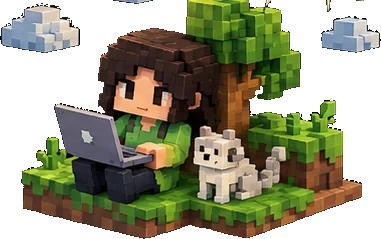
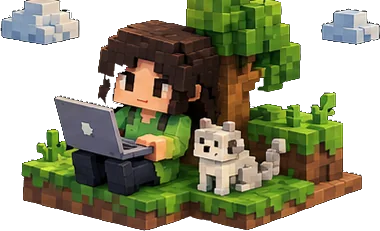
feat(frontend): voxel artwork, full-width chapters, and a much smoother scroll
Three things: the scroll was janky, the layout wasted the sides of a wide
screen, and the art is now yours rather than mine.

Smoothness. The opening animated a CSS `filter` on the element holding the
terrain, so every frame re-ran feTurbulence and re-rasterised a full-viewport
SVG: 12.7% dropped frames and a 250 ms worst case under a 6x CPU throttle. The
grading is now two flat layers whose opacity animates -- a compositor property,
so the terrain rasterises once. Measured over three runs of a full-page scroll:

  1x  median 16.7ms  p95 16.8ms  jank 1.5%
  2x  median 16.7ms  p95 16.8ms  jank 1.3%
  4x  median 16.7ms  p95 16.8ms  jank 2.2%

Two things I tried and backed out, both measured rather than assumed:
`content-visibility: auto` on the art made it far worse (56% jank) by thrashing
layout at the boundary, and `contain: strict` cost more than it saved by
stripping intrinsic size from an SVG wrapper.

Space. Every data chapter is now a sticky rail plus a wide body: the left third
carries the chapter's eyebrow, heading, standfirst and motif and stays put while
the content scrolls past, instead of a centred column marooned in white space.
The shell goes to 104rem and cards lay out two- and three-up. The console is a
full-bleed split with a real headline, the field, three numbered claims and the
diorama, rather than a form floating in the middle of the screen.

Artwork. The voxel cast is cut from the supplied sheet, keyed by flood-filling
[…]

diff --git a/frontend/src/components/sprites.ts b/frontend/src/components/sprites.ts
@@ -7,7 +7,7 @@
  * The sizes are baked in at build time rather than measured at runtime,
  * because they exist to reserve the element box *before* the image arrives.
  * Measuring them late would defeat the point and reintroduce layout shift --
- * which is one of the defects this product reports on other people's pages.
+ * one of the very defects this product reports on other pages.
  *
  * Imports go through Vite, so each file is content-hashed and cache-busted.
  */
@@ -36,19 +36,19 @@ export interface SpriteAsset {
 }
 
 export const SPRITES = {
-  'char-analyse': { src: CHAR_ANALYSE, width: 210, height: 223 },
-  'char-build': { src: CHAR_BUILD, width: 380, height: 239 },
-  'char-fix': { src: CHAR_FIX, width: 314, height: 224 },
-  'char-measure': { src: CHAR_MEASURE, width: 253, height: 210 },
-  'char-scan': { src: CHAR_SCAN, width: 242, height: 219 },
-  'char-tradeoffs': { src: CHAR_TRADEOFFS, width: 275, height: 216 },
+  'char-analyse': { src: CHAR_ANALYSE, width: 210, height: 207 },
+  'char-build': { src: CHAR_BUILD, width: 380, height: 231 },
+  'char-fix': { src: CHAR_FIX, width: 309, height: 216 },
+  'char-measure': { src: CHAR_MEASURE, width: 253, height: 202 },
+  'char-scan': { src: CHAR_SCAN, width: 191, height: 211 },
+  'char-tradeoffs': { src: CHAR_TRADEOFFS, width: 222, height: 208 },
   'iso-cloud': { src: ISO_CLOUD, width: 146, height: 139 },
-  'iso-co2': { src: ISO_CO2, width: 132, height: 154 },
+  'iso-co2': { src: ISO_CO2, width: 132, height: 155 },
   'iso-globe': { src: ISO_GLOBE, width: 199, height: 139 },
   'iso-laptop': { src: ISO_LAPTOP, width: 143, height: 139 },
-  'iso-server': { src: ISO_SERVER, width: 165, height: 177 },
+  'iso-server': { src: ISO_SERVER, width: 164, height: 177 },
   'iso-sprout': { src: ISO_SPROUT, width: 108, height: 155 },
-  'iso-sun': { src: ISO_SUN, width: 122, height: 115 },
+  'iso-sun': { src: ISO_SUN, width: 113, height: 114 },
   'iso-tree': { src: ISO_TREE, width: 154, height: 160 },
   'iso-turbine': { src: ISO_TURBINE, width: 128, height: 164 },
 } as const satisfies Record<string, SpriteAsset>

diff --git a/frontend/src/styles/layout.css b/frontend/src/styles/layout.css
@@ -204,7 +204,7 @@
   padding: 0;
   display: grid;
   gap: var(--space-6);
-  grid-template-columns: repeat(auto-fit, minmax(12rem, 1fr));
+  grid-template-columns: repeat(auto-fit, minmax(min(12rem, 100%), 1fr));
   border-top: var(--border-width) solid var(--border);
   padding-top: var(--space-8);
 }
@@ -251,22 +251,16 @@
   position: absolute;
 }
 
-.diorama__tree {
-  width: 40%;
-  left: 2%;
-  bottom: 14%;
-}
-
 .diorama__character {
-  width: 56%;
-  left: 30%;
-  bottom: 8%;
+  width: 92%;
+  left: 4%;
+  bottom: 12%;
 }
 
 .diorama__sprout {
-  width: 20%;
-  right: 4%;
-  bottom: 16%;
+  width: 17%;
+  right: 0;
+  bottom: 8%;
 }
 
 .diorama__cloud {
@@ -307,7 +301,7 @@
   .violation-list,
   .detection-list,
   .fix-list {
-    grid-template-columns: repeat(auto-fit, minmax(26rem, 1fr));
+    grid-template-columns: repeat(auto-fit, minmax(min(26rem, 100%), 1fr));
   }
 }
 

diff --git a/frontend/src/scenes/Begin.tsx b/frontend/src/scenes/Begin.tsx
@@ -166,9 +166,10 @@ export function Begin({ onScan, demoUrl, busy, error }: BeginProps): JSX.Element
         <div className="begin__scene">
           <div className="diorama">
             <Sprite name="iso-cloud" width={150} className="diorama__cloud" />
-            <Sprite name="iso-tree" width={200} className="diorama__tree" />
-            <Sprite name="char-scan" width={280} className="diorama__character" eager />
-            <Sprite name="iso-sprout" width={110} className="diorama__sprout" />
+            {/* A self-contained scene: the figure already stands on its own
+                ground, so nothing else needs placing under it. */}
+            <Sprite name="char-build" width={420} className="diorama__character" eager />
+            <Sprite name="iso-sprout" width={96} className="diorama__sprout" />
           </div>
         </div>
       </div>

diff --git a/frontend/src/styles/scenes.css b/frontend/src/styles/scenes.css
@@ -304,7 +304,7 @@
 .reveal__gauges {
   display: grid;
   gap: var(--space-6);
-  grid-template-columns: repeat(auto-fit, minmax(12rem, 1fr));
+  grid-template-columns: repeat(auto-fit, minmax(min(12rem, 100%), 1fr));
 }
 
 .reveal__tree {
@@ -384,7 +384,7 @@
   margin: var(--space-12) 0 0;
   display: grid;
   gap: 0;
-  grid-template-columns: repeat(auto-fit, minmax(16rem, 1fr));
+  grid-template-columns: repeat(auto-fit, minmax(min(16rem, 100%), 1fr));
   border: var(--border-width) solid var(--border);
   border-radius: var(--radius);
   background-color: var(--surface);

diff --git a/frontend/src/styles/chapters.css b/frontend/src/styles/chapters.css
@@ -357,7 +357,7 @@
 .finding-list {
   display: grid;
   gap: var(--space-4);
-  grid-template-columns: repeat(auto-fit, minmax(20rem, 1fr));
+  grid-template-columns: repeat(auto-fit, minmax(min(20rem, 100%), 1fr));
 }
 
 .finding {
@@ -519,7 +519,7 @@
 .deltas {
   display: grid;
   gap: var(--space-4);
-  grid-template-columns: repeat(auto-fit, minmax(11rem, 1fr));
+  grid-template-columns: repeat(auto-fit, minmax(min(11rem, 100%), 1fr));
 }
 
 .delta {

diff --git a/frontend/src/styles/app.css b/frontend/src/styles/app.css
@@ -202,7 +202,7 @@
 .card-grid {
   display: grid;
   gap: var(--space-4);
-  grid-template-columns: repeat(auto-fit, minmax(16rem, 1fr));
+  grid-template-columns: repeat(auto-fit, minmax(min(16rem, 100%), 1fr));
 }
 
 .card {
